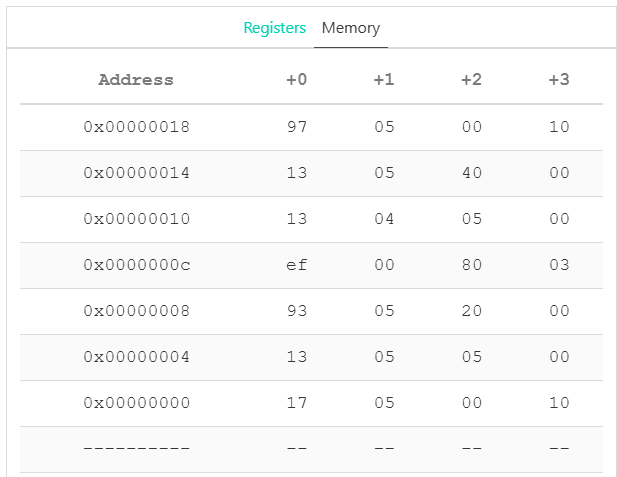
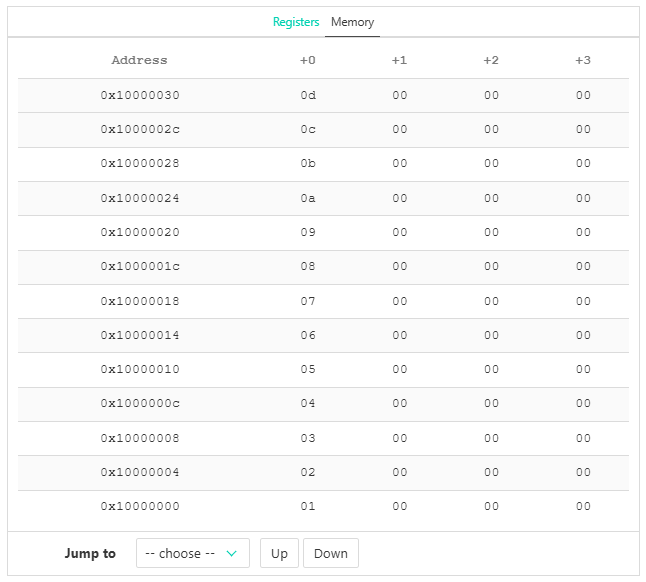
add screenshots

diff --git a/README.md b/README.md
@@ -127,12 +127,13 @@ The C version gives the same values (`result == 42` for row 2).
 ## 7. Comparison: my assembly vs. compiler output
 
 Compiled without optimization (`-O0`, the default), the C function becomes
-**30 instructions**, the loop body is 17 instructions per iteration. My
+**32 instructions** (`row_sum` in `row_sum.dump`, addresses `0x80000064`–`0x800000e0`),
+the loop body is 17 instructions per iteration. My
 hand-written function is **12 instructions**, the loop body is 6.
 
 Why the compiler output is longer (see `row_sum_funcs.dump`):
 
-* It builds a stack frame (`addi sp,sp,-48`, `sw s0,44(sp)`, ...) and spills
+* It builds a stack frame (`addi sp,sp,-48`, `sw ra,44(sp)`, `sw s0,40(sp)`, ...) and spills
   the arguments to the stack (`sw a0,-36(s0)`, `sw a1,-40(s0)`).
 * `sum` and `j` live in **memory**, not in registers: every iteration
   loads and stores them (`lw`/`sw`).
